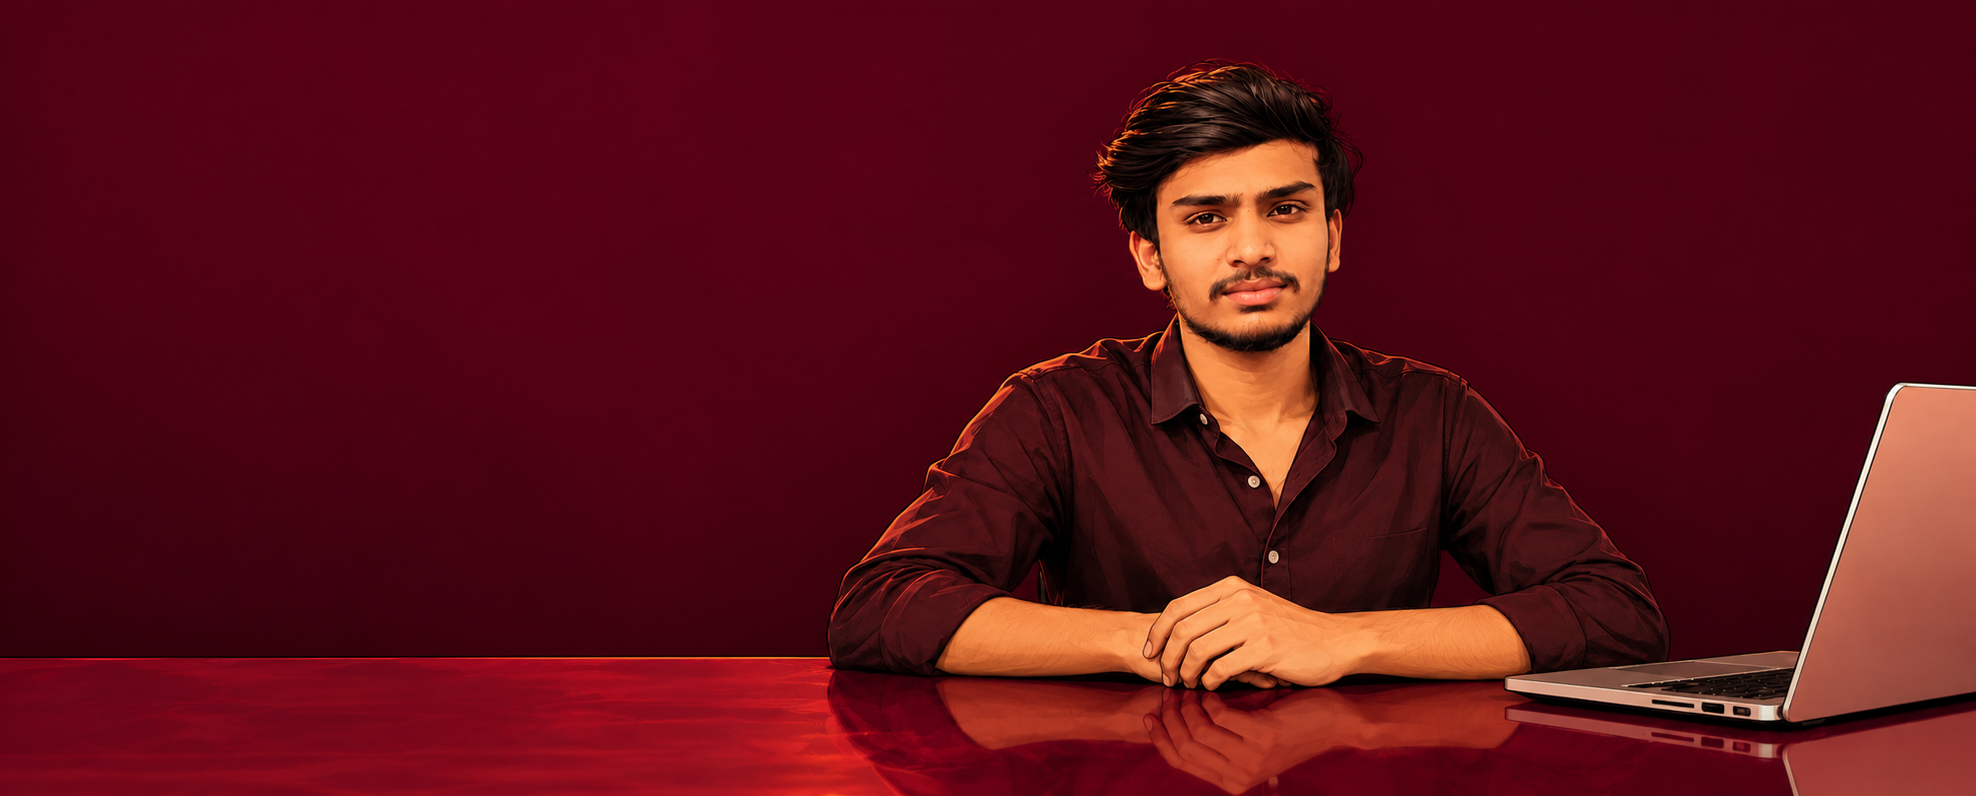
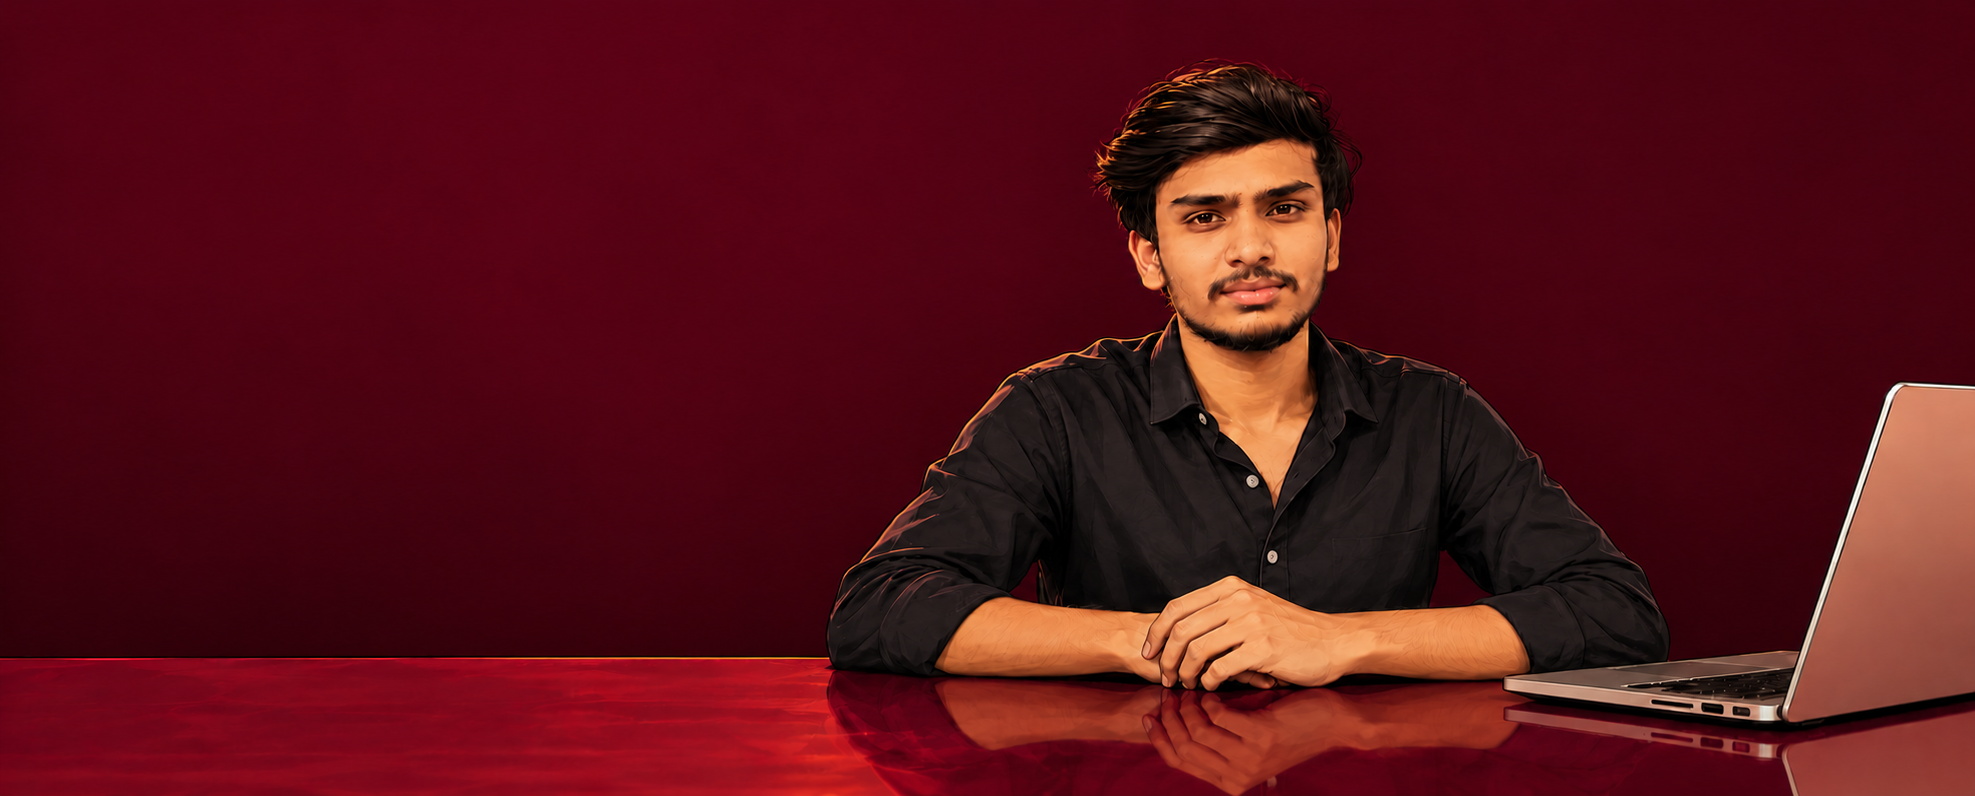
feat: update skills, portrait assets, and refine portfolio typography and styling

diff --git a/src/style.css b/src/style.css
@@ -342,7 +342,7 @@ textarea {
   bottom: 21px;
   left: 22px;
   right: 22px;
-  font: 7px var(--mono);
+  font: 8px var(--mono);
   letter-spacing: 1px;
   text-align: center;
   color: var(--cream);
@@ -380,7 +380,8 @@ textarea {
 
 .about-copy>p:not(.eyebrow) {
   max-width: 680px;
-  font-size: 15px;
+  font-size: 18px;
+  font-weight: 500;
   line-height: 1.8;
   color: #fff0e4
 }
@@ -433,7 +434,35 @@ textarea {
 }
 
 .skills-section {
-  padding: 100px 0 110px
+  padding: 60px 0 70px;
+}
+
+.skills-section .wrap {
+  width: min(1200px, calc(100% - 48px));
+}
+
+.skills-section .section-heading {
+  margin-bottom: 28px;
+}
+
+.skills-section .section-chip {
+  font-size: 12px;
+  font-weight: 800;
+  letter-spacing: 0.05em;
+  padding: 7px 16px;
+  margin-bottom: 12px;
+}
+
+.skills-section .section-heading h2 {
+  font-size: clamp(32px, 3.8vw, 48px);
+  font-weight: 800;
+  margin-bottom: 10px;
+}
+
+.skills-section .section-heading>p {
+  font-size: 16px;
+  font-weight: 500;
+  line-height: 1.6;
 }
 
 .section-heading {
@@ -475,45 +504,57 @@ textarea {
 .skills-grid {
   display: grid;
   grid-template-columns: repeat(3, 1fr);
-  gap: 20px
+  gap: 26px
 }
 
 .skill-card {
-  border: 1px solid #f9d9b91e;
-  border-radius: 15px;
-  padding: 24px 23px;
-  background: #f9d9b908;
-  min-height: 240px
+  border: 1px solid #f9d9b924;
+  border-radius: 18px;
+  padding: 30px 28px;
+  background: #f9d9b90c;
+  min-height: 270px;
+  transition: transform 0.25s ease, border-color 0.25s ease, box-shadow 0.25s ease
+}
+
+.skill-card:hover {
+  transform: translateY(-4px);
+  border-color: #f9d9b940;
+  box-shadow: 0 12px 28px rgba(0, 0, 0, 0.25)
 }
 
 .skill-card h3 {
-  font-size: 13px;
-  margin: 0 0 22px;
-  padding-bottom: 13px;
-  border-bottom: 1px solid #f9d9b91a
+  font-size: 16px;
+  font-weight: 800;
+  letter-spacing: 0.06em;
+  color: #fce8db;
+  margin: 0 0 24px;
+  padding-bottom: 15px;
+  border-bottom: 1px solid #f9d9b920
 }
 
 .skill-row {
-  margin: 0 0 16px
+  margin: 0 0 19px
 }
 
 .skill-label {
   display: flex;
   justify-content: space-between;
-  font-size: 12px;
-  color: #ebc9b3;
-  margin-bottom: 7px
+  align-items: center;
+  font-size: 15px;
+  font-weight: 600;
+  color: #f7e0d2;
+  margin-bottom: 9px
 }
 
 .skill-label span:last-child {
-  font: 10px var(--mono);
-  color: #d49b9e
+  font: 700 13px var(--mono);
+  color: #e5b3b6
 }
 
 .skill-track {
-  height: 4px;
+  height: 7px;
   border-radius: 10px;
-  background: #f9d9b91a;
+  background: #f9d9b91e;
   overflow: hidden
 }
 
@@ -521,14 +562,16 @@ textarea {
   display: block;
   height: 100%;
   border-radius: 10px;
-  background: linear-gradient(90deg, #a33761, #f0b5a8)
+  background: linear-gradient(90deg, #a33761, #f0b5a8);
+  box-shadow: 0 0 8px rgba(240, 181, 168, 0.25)
 }
 
 .skill-note {
   text-align: right;
-  color: #9c747b;
-  font-size: 10px;
-  margin-top: 18px
+  color: #b3888f;
+  font-size: 12px;
+  font-weight: 500;
+  margin-top: 16px
 }
 
 .process-section {
@@ -1276,7 +1319,8 @@ textarea {
   }
 
   .skills-grid {
-    grid-template-columns: repeat(2, 1fr)
+    grid-template-columns: repeat(2, 1fr);
+    gap: 24px
   }
 
   .process-layout {
@@ -1496,7 +1540,8 @@ textarea {
   }
 
   .about-copy>p:not(.eyebrow) {
-    font-size: 13px
+    font-size: 15px;
+    font-weight: 500;
   }
 
   .tech-logos {
@@ -1524,17 +1569,30 @@ textarea {
 
   .skills-grid {
     grid-template-columns: 1fr;
-    gap: 13px
+    gap: 18px
   }
 
   .skill-card {
     min-height: 0;
-    padding: 21px
+    padding: 24px 22px
+  }
+
+  .skill-card h3 {
+    font-size: 15px
+  }
+
+  .skill-label {
+    font-size: 14px
+  }
+
+  .skill-label span:last-child {
+    font-size: 12px
   }
 
   .skill-note {
     text-align: left;
-    line-height: 1.6
+    line-height: 1.6;
+    font-size: 11.5px
   }
 
   .process-section {
@@ -1735,22 +1793,34 @@ textarea {
   text-align: left;
 }
 
+.navigation a {
+  font-weight: 700 !important;
+  font-size: 16px !important;
+}
+
+.hire-pill {
+  font-size: 15px !important;
+}
+
 .hero h1 {
   text-align: left;
   max-width: 500px;
   font-size: clamp(35px, 4.4vw, 53px);
+  font-weight: 800 !important;
 }
 
 .outlined-role {
   text-align: left;
   font-size: clamp(20px, 2.2vw, 29px);
   margin-top: 5px;
+  font-weight: 800 !important;
 }
 
 .hero-summary {
   text-align: left;
   max-width: 400px;
-  font-size: 15.5px;
+  font-size: 18px !important;
+  font-weight: 500 !important;
 }
 
 .hero-actions {

diff --git a/src/main.jsx b/src/main.jsx
@@ -3,12 +3,12 @@ import { ArrowDown, ArrowRight, ArrowUpRight, Github, Linkedin, Code2, Menu, X, 
 import './style.css';
 
 const skills = [
-  { title: 'LANGUAGES', items: [['JavaScript', 78], ['Java', 72], ['Python', 72], ['HTML & CSS', 82]] },
+  { title: 'LANGUAGES', items: [['JavaScript', 78], ['Java', 72], ['Python', 72], ['HTML & CSS', 82], ["SQL",75]] },
   { title: 'FRONTEND & MOBILE', items: [['React', 75], ['Tailwind CSS', 78], ['React Native / Expo', 65], ['Redux Toolkit', 60]] },
   { title: 'BACKEND', items: [['Node.js & Express', 68], ['REST APIs', 70], ['Authentication', 62], ['FastAPI', 55]] },
-  { title: 'DATABASES', items: [['MongoDB', 68], ['PostgreSQL', 62], ['Supabase', 65], ['Firebase', 55]] },
-  { title: 'TOOLS & PLATFORMS', items: [['Git & GitHub', 75], ['Vite', 78], ['Postman', 62], ['Linux', 70]] },
-  { title: 'CORE FUNDAMENTALS', items: [['Data Structures', 65], ['OOP', 70], ['DBMS', 62], ['Problem Solving', 65]] },
+  { title: 'DATABASES', items: [['MongoDB', 68], ['PostgreSQL', 62], ['Supabase', 65], ['Firebase', 55], ["Redis",75]] },
+  { title: 'TOOLS & PLATFORMS', items: [['Git & GitHub', 75], ['Vercel', 82], ['Postman', 62], ['Linux', 70], ["Docker",65],["Render",84]] },
+  { title: 'CORE FUNDAMENTALS', items: [['Data Structures', 65], ['OOP', 70], ['DBMS', 62],["Computer Networking",70],['Operating System',70], ['Problem Solving', 65]] },
 ];
 const projects = [
   { no: '01', tag: 'MOBILE APP · PRODUCT CONCEPT', title: 'Camera Check', type: 'Computer vision workflow', description: 'A mobile-first capture flow designed to check blur, glare, lighting, framing, and distance before an image is submitted. Includes ArUco marker guidance for calibration and size estimation.', stack: ['React Native', 'JavaScript', 'FastAPI', 'OpenCV', 'PostgreSQL'], icon: Smartphone, tone: 'peach' },
@@ -19,7 +19,7 @@ const projects = [
 ];
 const process = [
   ['01', 'Understand', 'Clarify the problem, intended users, constraints, and what a successful outcome should look like.'],
-  ['02', 'Design', 'Map the user flow and shape a responsive interface before adding unnecessary complexity.'],
+  ['02', 'Design', 'Map the user flow and shape a responsive interfacce before adding unnecessary complexity.'],
   ['03', 'Build', 'Develop in small, testable pieces and connect the frontend to reliable APIs and data models.'],
   ['04', 'Improve', 'Test edge cases, fix rough edges, and iterate based on what actually works.'],
 ];
